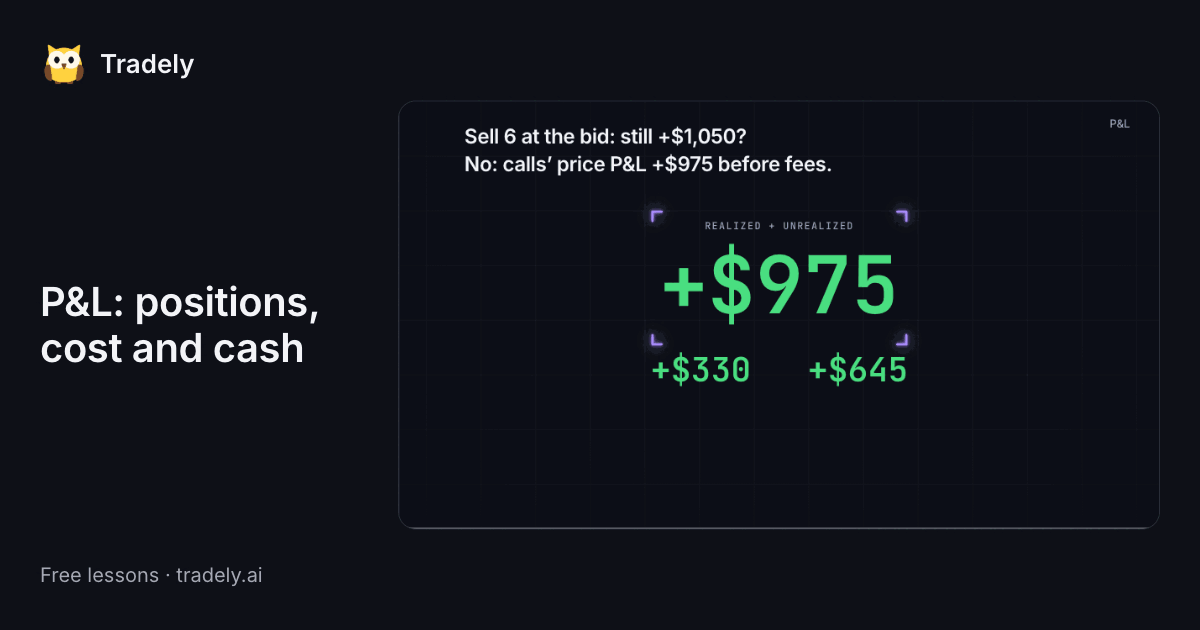
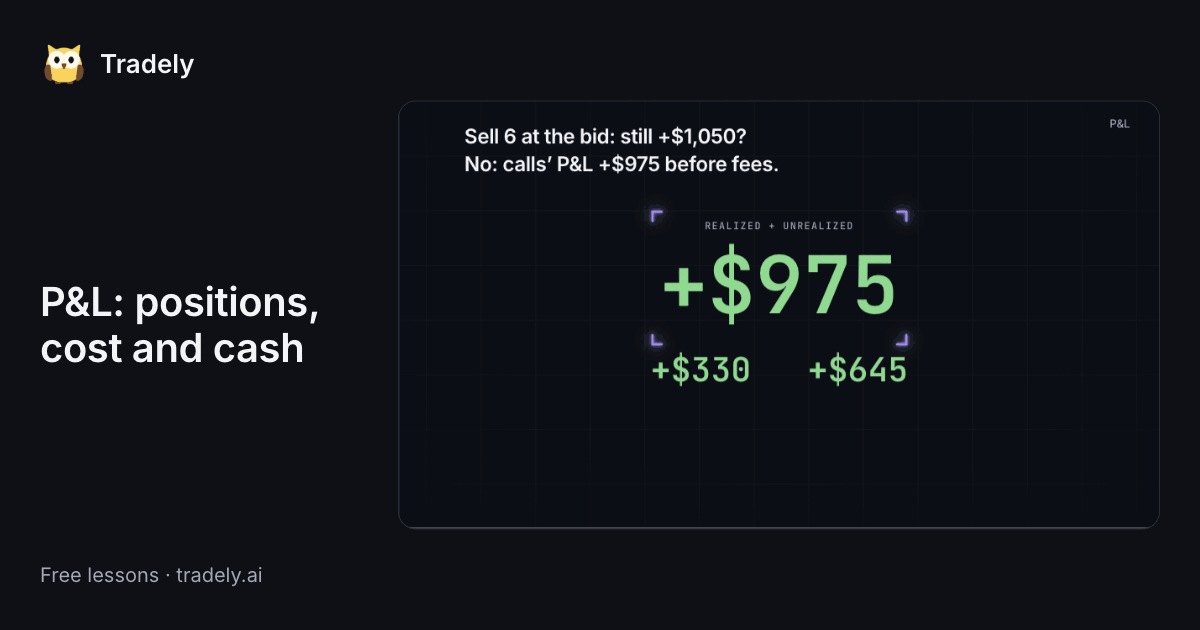
fix(learning): P&L film's sell-6 question and answer fit a two-line headline
The wide question drops "instead" and the answer drops "price" from "price P&L", which "before fees" already says: 15 words to 13 on the wide frame (each line 33 characters, the first alone 9.9 s) and 13 to 12 on the phone. The share card shows both lines.

The two-line headline rule decided on 2026-11-15: a pair runs 12 words, or 14 where the first line stands alone 5 s and each line is at most 36 characters, and a pair over 8 words stays up 5.5 s. English only; no timing changes.

diff --git a/apps/web/src/features/learning/lessons/portfolio-pnl-film.tsx b/apps/web/src/features/learning/lessons/portfolio-pnl-film.tsx
@@ -175,7 +175,7 @@ const copy = {
 	],
 	bpTag: ["buying power", "购买力"],
 	lotsHead: [
-		`Sell ${SOLD} at the bid instead: still ${signed(held.unrealized)}?`,
+		`Sell ${SOLD} at the bid: still ${signed(held.unrealized)}?`,
 		`如果以买价卖出 ${SOLD} 张：还是 ${signed(held.unrealized)} 吗？`,
 	],
 	lotsHeadShort: [
@@ -186,7 +186,7 @@ const copy = {
 	unrealized: ["unrealized", "未实现"],
 	totalTag: ["realized + unrealized", "已实现 + 未实现"],
 	totalHead: [
-		`No: calls’ price P&L ${signed(fifo.realized + fifo.unrealized)} before fees.`,
+		`No: calls’ P&L ${signed(fifo.realized + fifo.unrealized)} before fees.`,
 		`不：看涨价格盈亏 ${signed(fifo.realized + fifo.unrealized)}，未扣费。`,
 	],
 	/** Where the $75 comes from: six sold at the bid, not the mid. */
